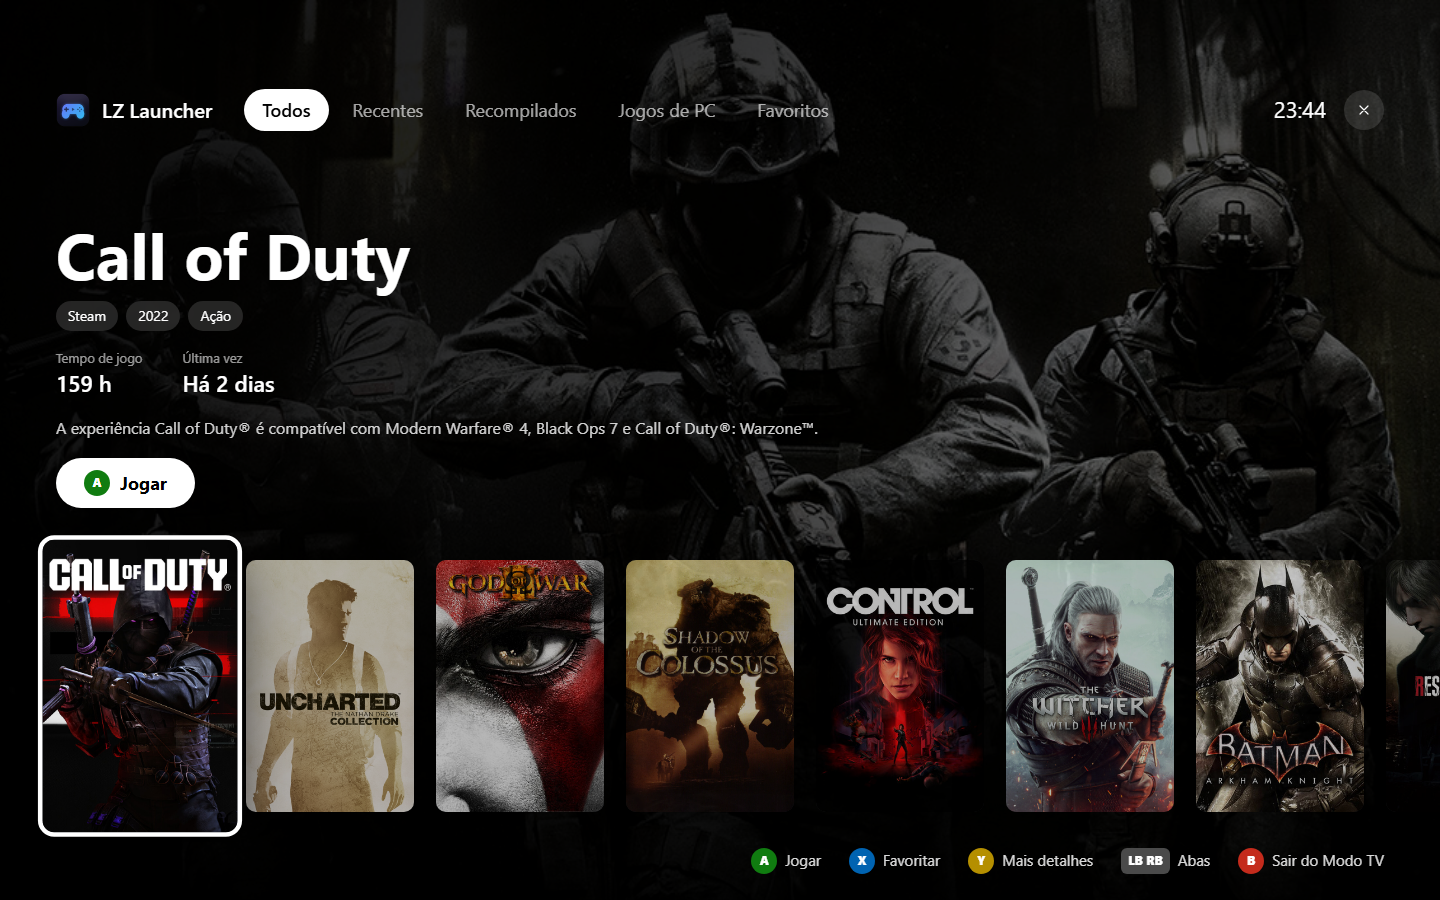
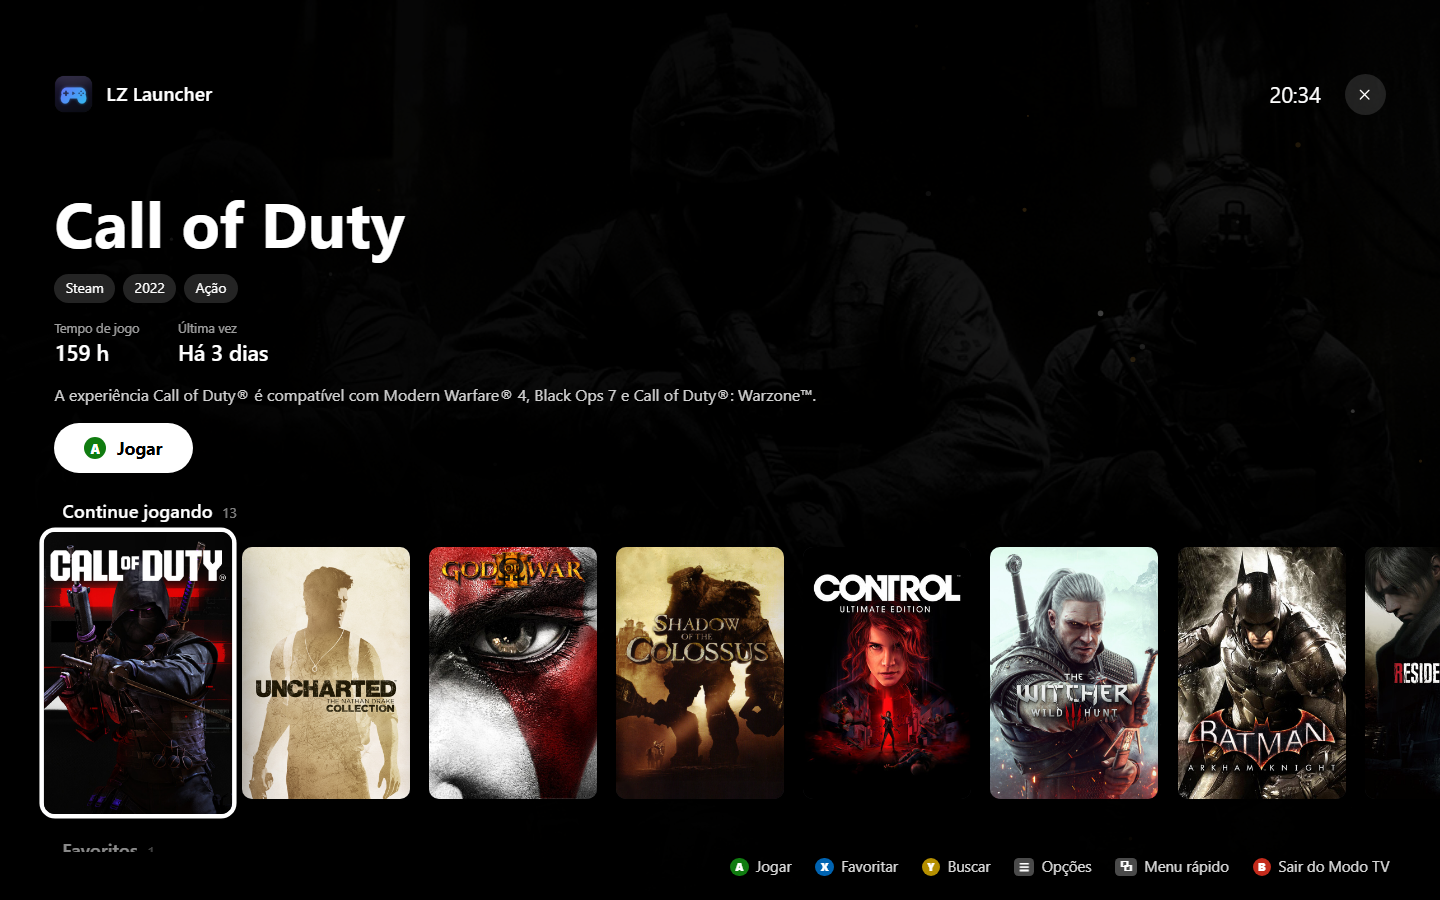
README com as novidades da 1.4.0: Modo TV, iniciar com o Windows e tema Black Midnight

diff --git a/README.md b/README.md
@@ -4,7 +4,7 @@
 
 **Criado por Lagaz** · Windows 10/11 64-bit · Português · English · Español
 
-Biblioteca e launcher que junta num lugar só os seus **jogos recompilados** (ports nativos de jogos de **PS4, PS3, Xbox** e outros consoles rodando direto no Windows) e os seus **jogos de PC** de todas as lojas. Ele reconhece cada jogo sozinho, mostra a **capa correta** e as **informações do jogo**, conta o **tempo de jogo** e abre tudo com um clique — ou com o **controle**, no **Modo TV**.
+Biblioteca e launcher que junta num lugar só os seus **jogos recompilados** (ports nativos de jogos de **PS4, PS3, Xbox** e outros consoles rodando direto no Windows) e os seus **jogos de PC** de todas as lojas. Ele reconhece cada jogo sozinho, mostra a **capa correta** e as **informações do jogo**, conta o **tempo de jogo** e abre tudo com um clique — ou com o **controle**, no **Modo TV**, direto do sofá.
 
 ![Biblioteca](docs/screenshots/biblioteca.png)
 
@@ -83,19 +83,36 @@ Seu tempo de jogo em números: tempo total, últimos 7 e 30 dias, sessões e dur
 ### Modo TV e controle
 ![Modo TV](docs/screenshots/modo-tv.png)
 
-Tela cheia feita para o sofá: o fundo muda com o jogo em foco, com abas (Todos, Recentes, Recompilados, Jogos de PC, Favoritos), informações do jogo e uma fileira de capas.
+Tela cheia feita para o sofá, para usar o PC na TV só com o controle:
+
+- **Fileiras por categoria** como num console: *Jogando agora*, *Continue jogando*, *Favoritos*, *Recompilados*, *Jogos de PC*, *Mais jogados* e *Todos os jogos*.
+- **Trailer no fundo**: depois de alguns segundos parado num jogo da Steam, o trailer dele toca sem som atrás das informações.
+- **Prévia das sessões** do jogo em foco (últimas 2 semanas), além de tempo de jogo, gêneros, nota do Metacritic e descrição.
+- **Sons de navegação** e **fundo animado** nas cores do tema (partículas, scanlines ou céu com estrelas cadentes).
+- **Bateria do controle** sem fio no canto da tela.
 
 | Controle | Ação |
 |---|---|
-| Direcional / analógico | Navegar |
-| **A** | Abrir / jogar |
-| **B** | Voltar / sair do Modo TV |
+| Direcional / analógico | Navegar entre os jogos e as fileiras |
+| **A** | Jogar |
+| **B** | Voltar / limpar a busca / sair do Modo TV |
 | **X** | Favoritar |
-| **Y** | Mais detalhes |
-| **LB / RB** | Trocar de aba |
-| **Menu (☰)** | Entrar ou sair do Modo TV |
+| **Y** | Buscar com teclado na tela |
+| **LB / RB** | Pular de fileira |
+| **☰ (Menu)** | Opções: ordem, tamanho das capas e do texto, trailers, sons, fundo animado |
+| **⧉ (View)** | Menu rápido: volume, sair do Modo TV, fechar o app, suspender, reiniciar ou desligar o PC |
+| **Segurar View + ☰** (ou o botão Xbox) | Fecha o jogo aberto e volta ao Modo TV |
 
-Abra pelo botão **Modo TV** na barra lateral, pela tecla **F11** ou pelo botão Menu do controle. O controle também navega pela biblioteca normal, e o app pode **abrir direto no Modo TV** (Configurações → Controle e Modo TV). Para não atrapalhar, o app só responde ao controle quando a janela dele está em foco.
+<p>
+  <img src="docs/screenshots/modo-tv-busca.png" width="49%" alt="Busca com teclado na tela">
+  <img src="docs/screenshots/modo-tv-menu.png" width="49%" alt="Menu rápido">
+</p>
+
+Quando você sai de um jogo aberto pelo Modo TV, o LZ Launcher **volta sozinho para a frente**, já no Modo TV. Abra pelo botão **Modo TV** na barra lateral, pela tecla **F11** ou pelo botão Menu do controle. O controle também navega pela biblioteca normal e, para não atrapalhar, o app só responde a ele quando a janela está em foco.
+
+### Iniciar com o Windows
+
+Em **Configurações → Inicialização**, o LZ Launcher pode abrir junto com o Windows — escondido na bandeja, contando o tempo de jogo, ou **direto no Modo TV**, ideal para um PC ligado na TV.
 
 ### Grade ou lista
 ![Lista](docs/screenshots/lista.png)
@@ -103,13 +120,19 @@ Abra pelo botão **Modo TV** na barra lateral, pela tecla **F11** ou pelo botão
 Alterne entre **grade** de capas (com tamanho ajustável) e **lista** com plataforma, categoria, tempo de jogo e última vez — clique no cabeçalho para ordenar. O app lembra suas escolhas.
 
 ### Temas
-![Tema Cyberpunk](docs/screenshots/tema-cyberpunk.png)
+![Tema Black Midnight](docs/screenshots/tema-midnight.png)
 
-Três temas em **Configurações → Aparência**:
+Quatro temas em **Configurações → Aparência** — cada um muda bem mais que as cores:
 
 - **Sóbrio** — cinzas neutros, visual de launcher de desktop.
 - **Neon** — roxo e ciano, com o destaque *Continue jogando* no topo da biblioteca.
 - **Cyberpunk** — amarelo neon, cantos cortados, scanlines, fundo com a arte do jogo em foco e efeitos de glitch.
+- **Black Midnight** — preto absoluto, céu estrelado com brilho da lua, barra lateral de vidro flutuante, títulos serifados e reflexo de luar nas capas.
+
+<p>
+  <img src="docs/screenshots/tema-cyberpunk.png" width="49%" alt="Tema Cyberpunk">
+  <img src="docs/screenshots/jogo-midnight.png" width="49%" alt="Tema Black Midnight na página do jogo">
+</p>
 
 ### Bandeja do sistema
 Fechar a janela **minimiza o LZ Launcher para a bandeja**, perto do relógio — ele continua contando o tempo de jogo. Clique duas vezes no ícone para voltar ou em **Sair** para fechar de vez. Dá para desligar nas configurações.
